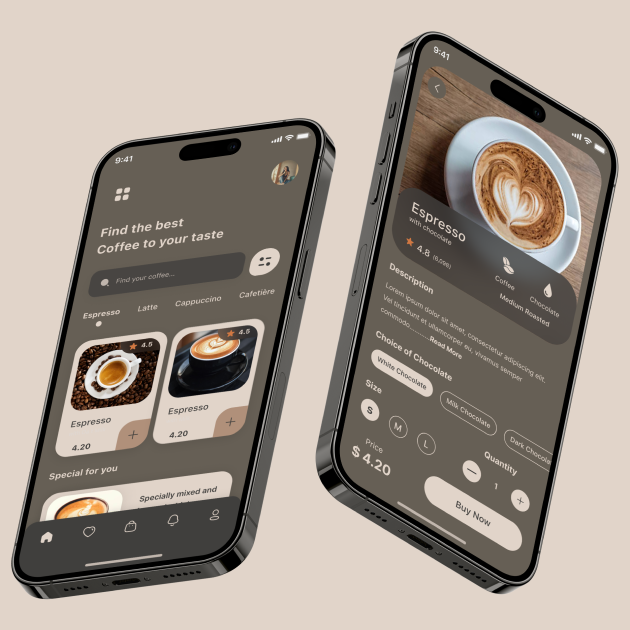
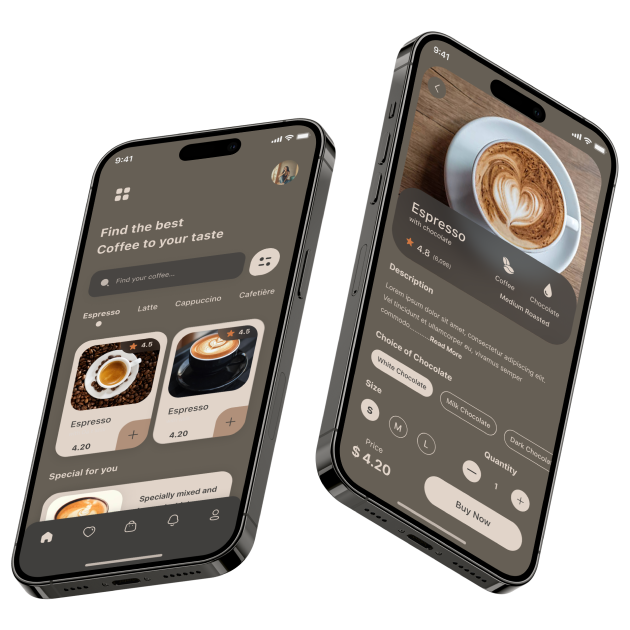
style: add css for dark/light theme

diff --git a/coffee-house/home.html b/coffee-house/home.html
@@ -63,8 +63,8 @@
           <div class="favorite__slider-main">
             <div class="slide__icon slide__icon-prev">
               <svg width="60" height="60" viewBox="0 0 60 60" fill="none" xmlns="http://www.w3.org/2000/svg">
-                <rect x="0.5" y="0.5" width="59" height="59" rx="29.5" stroke="#665F55"/>
-                <path d="M36.5 30H24M24 30L30 24M24 30L30 36" stroke="#403F3D" stroke-linecap="round" stroke-linejoin="round"/>
+                <rect x="0.5" y="0.5" width="59" height="59" rx="29.5" stroke="currentColor"/>
+                <path d="M36.5 30H24M24 30L30 24M24 30L30 36" stroke="currentColor" stroke-linecap="round" stroke-linejoin="round"/>
               </svg>                
             </div>
             <div class="slider__card">
@@ -77,8 +77,8 @@
             </div>
             <div class="slide__icon slide__icon-next">
               <svg width="60" height="60" viewBox="0 0 60 60" fill="none" xmlns="http://www.w3.org/2000/svg">
-                <rect x="0.5" y="0.5" width="59" height="59" rx="29.5" stroke="#665F55"/>
-                <path d="M36.5 30H24M24 30L30 24M24 30L30 36" stroke="#403F3D" stroke-linecap="round" stroke-linejoin="round"/>
+                <rect x="0.5" y="0.5" width="59" height="59" rx="29.5" stroke="currentColor"/>
+                <path d="M36.5 30H24M24 30L30 24M24 30L30 36" stroke="currentColor" stroke-linecap="round" stroke-linejoin="round"/>
               </svg> 
             </div>
           </div>
@@ -133,8 +133,8 @@
           <div class="mobile__buttons">
             <a href="https://www.apple.com/app-store/" class="mobile__button" target="_blank">
               <svg width="36" height="36" viewBox="0 0 36 36" fill="none" xmlns="http://www.w3.org/2000/svg">
-                <path d="M26.7073 18.6307C26.6704 14.6324 30.065 12.6872 30.2203 12.5966C28.2977 9.86366 25.3178 9.49026 24.2707 9.46048C21.7679 9.20369 19.3403 10.9206 18.0654 10.9206C16.765 10.9206 14.8017 9.48529 12.6858 9.52747C9.96293 9.56841 7.41566 11.1055 6.0186 13.4923C3.13542 18.359 5.28572 25.5108 8.04802 29.4446C9.42981 31.3712 11.0444 33.5223 13.1578 33.4466C15.2254 33.3635 15.9978 32.1614 18.4929 32.1614C20.9651 32.1614 21.6903 33.4466 23.8457 33.3983C26.0647 33.3635 27.4618 31.463 28.7952 29.519C30.392 27.3108 31.0333 25.1362 31.0588 25.0245C31.0066 25.0071 26.7493 23.4229 26.7073 18.6307Z" fill="#403F3D"/>
-                <path d="M22.6357 6.87268C23.7477 5.51675 24.5086 3.67205 24.2974 1.80005C22.6879 1.86952 20.675 2.88554 19.5159 4.21169C18.4903 5.38029 17.5742 7.29571 17.8109 9.097C19.6189 9.2285 21.4753 8.20752 22.6357 6.87268Z" fill="#403F3D"/>
+                <path d="M26.7073 18.6307C26.6704 14.6324 30.065 12.6872 30.2203 12.5966C28.2977 9.86366 25.3178 9.49026 24.2707 9.46048C21.7679 9.20369 19.3403 10.9206 18.0654 10.9206C16.765 10.9206 14.8017 9.48529 12.6858 9.52747C9.96293 9.56841 7.41566 11.1055 6.0186 13.4923C3.13542 18.359 5.28572 25.5108 8.04802 29.4446C9.42981 31.3712 11.0444 33.5223 13.1578 33.4466C15.2254 33.3635 15.9978 32.1614 18.4929 32.1614C20.9651 32.1614 21.6903 33.4466 23.8457 33.3983C26.0647 33.3635 27.4618 31.463 28.7952 29.519C30.392 27.3108 31.0333 25.1362 31.0588 25.0245C31.0066 25.0071 26.7493 23.4229 26.7073 18.6307Z" fill="currentColor"/>
+                <path d="M22.6357 6.87268C23.7477 5.51675 24.5086 3.67205 24.2974 1.80005C22.6879 1.86952 20.675 2.88554 19.5159 4.21169C18.4903 5.38029 17.5742 7.29571 17.8109 9.097C19.6189 9.2285 21.4753 8.20752 22.6357 6.87268Z" fill="currentColor"/>
               </svg> 
               <div class="mobile__text">             
                 <div class="app_text">Available on the</div>
@@ -143,10 +143,10 @@
             </a>
             <a href="https://play.google.com/" class="mobile__button" target="_blank">
               <svg width="36" height="36" viewBox="0 0 36 36" fill="none" xmlns="http://www.w3.org/2000/svg">
-                <path d="M3.7558 3.20297C3.39335 3.57289 3.18359 4.14884 3.18359 4.89471V31.4994C3.18359 32.2453 3.39335 32.8212 3.7558 33.1911L3.84525 33.2723L19.1359 18.37V18.0181L3.84525 3.11575L3.7558 3.20297Z" fill="#403F3D"/>
-                <path d="M26.0776 23.34L20.9863 18.37V18.0181L26.0837 13.0482L26.1979 13.1128L32.2345 16.4617C33.9573 17.4121 33.9573 18.976 32.2345 19.9324L26.1979 23.2753L26.0776 23.34Z" fill="#403F3D"/>
-                <path d="M25.2733 24.2007L20.0617 19.1195L4.68164 34.1166C5.25384 34.7031 6.18695 34.7737 7.24807 34.1873L25.2733 24.2007Z" fill="#403F3D"/>
-                <path d="M25.2733 12.1876L7.24807 2.20103C6.18695 1.62058 5.25384 1.69125 4.68164 2.27772L20.0617 17.2688L25.2733 12.1876Z" fill="#403F3D"/>
+                <path d="M3.7558 3.20297C3.39335 3.57289 3.18359 4.14884 3.18359 4.89471V31.4994C3.18359 32.2453 3.39335 32.8212 3.7558 33.1911L3.84525 33.2723L19.1359 18.37V18.0181L3.84525 3.11575L3.7558 3.20297Z" fill="currentColor"/>
+                <path d="M26.0776 23.34L20.9863 18.37V18.0181L26.0837 13.0482L26.1979 13.1128L32.2345 16.4617C33.9573 17.4121 33.9573 18.976 32.2345 19.9324L26.1979 23.2753L26.0776 23.34Z" fill="currentColor"/>
+                <path d="M25.2733 24.2007L20.0617 19.1195L4.68164 34.1166C5.25384 34.7031 6.18695 34.7737 7.24807 34.1873L25.2733 24.2007Z" fill="currentColor"/>
+                <path d="M25.2733 12.1876L7.24807 2.20103C6.18695 1.62058 5.25384 1.69125 4.68164 2.27772L20.0617 17.2688L25.2733 12.1876Z" fill="currentColor"/>
                 </svg>
                 <div class="mobile__text">             
                   <div class="app_text">Available on</div><div class="app_title">Google Play</div>
@@ -168,19 +168,19 @@
           <div class="footer__social">
             <a href="https://twitter.com" class="social_circle" target="_blank">
               <svg width="24" height="24" viewBox="0 0 24 24" fill="none" xmlns="http://www.w3.org/2000/svg">
-                <path d="M23 3.01006C23 3.01006 20.9821 4.20217 19.86 4.54006C19.2577 3.84757 18.4573 3.35675 17.567 3.13398C16.6767 2.91122 15.7395 2.96725 14.8821 3.29451C14.0247 3.62177 13.2884 4.20446 12.773 4.96377C12.2575 5.72309 11.9877 6.62239 12 7.54006V8.54006C10.2426 8.58562 8.50127 8.19587 6.93101 7.4055C5.36074 6.61513 4.01032 5.44869 3 4.01006C3 4.01006 -1 13.0101 8 17.0101C5.94053 18.408 3.48716 19.109 1 19.0101C10 24.0101 21 19.0101 21 7.51006C20.9991 7.23151 20.9723 6.95365 20.92 6.68006C21.9406 5.67355 23 3.01006 23 3.01006Z" stroke="#E1D4C9" stroke-linecap="round" stroke-linejoin="round"/>
+                <path d="M23 3.01006C23 3.01006 20.9821 4.20217 19.86 4.54006C19.2577 3.84757 18.4573 3.35675 17.567 3.13398C16.6767 2.91122 15.7395 2.96725 14.8821 3.29451C14.0247 3.62177 13.2884 4.20446 12.773 4.96377C12.2575 5.72309 11.9877 6.62239 12 7.54006V8.54006C10.2426 8.58562 8.50127 8.19587 6.93101 7.4055C5.36074 6.61513 4.01032 5.44869 3 4.01006C3 4.01006 -1 13.0101 8 17.0101C5.94053 18.408 3.48716 19.109 1 19.0101C10 24.0101 21 19.0101 21 7.51006C20.9991 7.23151 20.9723 6.95365 20.92 6.68006C21.9406 5.67355 23 3.01006 23 3.01006Z" stroke="currentColor" stroke-linecap="round" stroke-linejoin="round"/>
                 </svg>              
             </a>
             <a href="https://www.instagram.com/" class="social_circle" target="_blank">
               <svg width="24" height="24" viewBox="0 0 24 24" fill="none" xmlns="http://www.w3.org/2000/svg">
-                <path d="M12 16C14.2091 16 16 14.2091 16 12C16 9.79086 14.2091 8 12 8C9.79086 8 8 9.79086 8 12C8 14.2091 9.79086 16 12 16Z" stroke="#E1D4C9" stroke-linecap="round" stroke-linejoin="round"/>
-                <path d="M3 16V8C3 5.23858 5.23858 3 8 3H16C18.7614 3 21 5.23858 21 8V16C21 18.7614 18.7614 21 16 21H8C5.23858 21 3 18.7614 3 16Z" stroke="#E1D4C9"/>
-                <path d="M17.5 6.51L17.51 6.49889" stroke="#E1D4C9" stroke-linecap="round" stroke-linejoin="round"/>
+                <path d="M12 16C14.2091 16 16 14.2091 16 12C16 9.79086 14.2091 8 12 8C9.79086 8 8 9.79086 8 12C8 14.2091 9.79086 16 12 16Z" stroke="currentColor" stroke-linecap="round" stroke-linejoin="round"/>
+                <path d="M3 16V8C3 5.23858 5.23858 3 8 3H16C18.7614 3 21 5.23858 21 8V16C21 18.7614 18.7614 21 16 21H8C5.23858 21 3 18.7614 3 16Z" stroke="currentColor"/>
+                <path d="M17.5 6.51L17.51 6.49889" stroke="currentColor" stroke-linecap="round" stroke-linejoin="round"/>
                 </svg>              
             </a>
             <a href="https://www.facebook.com/" class="social_circle" target="_blank">
               <svg width="24" height="24" viewBox="0 0 24 24" fill="none" xmlns="http://www.w3.org/2000/svg">
-                <path d="M17 2H14C12.6739 2 11.4021 2.52678 10.4645 3.46447C9.52678 4.40215 9 5.67392 9 7V10H6V14H9V22H13V14H16L17 10H13V7C13 6.73478 13.1054 6.48043 13.2929 6.29289C13.4804 6.10536 13.7348 6 14 6H17V2Z" stroke="#E1D4C9" stroke-linecap="round" stroke-linejoin="round"/>
+                <path d="M17 2H14C12.6739 2 11.4021 2.52678 10.4645 3.46447C9.52678 4.40215 9 5.67392 9 7V10H6V14H9V22H13V14H16L17 10H13V7C13 6.73478 13.1054 6.48043 13.2929 6.29289C13.4804 6.10536 13.7348 6 14 6H17V2Z" stroke="currentColor" stroke-linecap="round" stroke-linejoin="round"/>
                 </svg>              
             </a>
           </div>

diff --git a/coffee-house/css/style.css b/coffee-house/css/style.css
@@ -12,6 +12,9 @@
 
   --border-primary: #c1b6ad;
   --border-inverse: #665f55;
+
+  --social-hover-bg: #c1b6ad;
+  --social-hover-icon: #403f3d;
 }
 
 /*для Dark-theme*/
@@ -26,6 +29,9 @@
 
   --border-primary: #665f55;
   --border-inverse: #c1b6ad;
+
+  --social-hover-bg: #292826;
+  --social-hover-icon: #e1d4c9;
 }
 
 [data-theme="dark"] .logo__img-light {
@@ -34,6 +40,10 @@
 
 [data-theme="dark"] .logo__img-dark {
   display: block;
+}
+
+[data-theme="dark"] .header__menu::after {
+  background-image: url(../assets/icon/coffee-cup-dark.svg);
 }
 
 html {
@@ -352,18 +362,33 @@ li {
   transform: rotate(180deg);
 }
 
+.slide__icon {
+  color: var(--border-inverse);
+  cursor: pointer;
+  transition: color 0.3s ease;
+}
+
+.slide__icon svg {
+  transition: fill 0.3s ease;
+}
+
+.slide__icon svg path {
+  transition: stroke 0.3s ease;
+}
+
 .slide__icon:hover {
   cursor: pointer;
   transition: 0.5s ease-in-out;
+  color: var(--slider-hover-bg);
 }
 
 .slide__icon:hover svg {
-  fill: #665F55;
+  fill: var(--bg-container);
   transition: fill 0.3s ease;
 }
 
 .slide__icon:hover svg path{
-  stroke: #E1D4C9;
+  stroke: var(--text-inverse);
   transition: stroke 0.3s ease;
 }
 
@@ -460,6 +485,7 @@ li {
   border-radius: 100px;
   border: 1px solid var(--border-inverse);
   background: transparent;
+  color: var(--text-primary);
   display: flex;
   gap: 0.8rem;
   align-items: center;
@@ -477,7 +503,7 @@ li {
 }
 
 .mobile__button:hover svg path{
-  fill: #E1D4C9;
+  fill: var(--text-inverse);
   transition: fill 0.3s ease;
 }
 
@@ -551,12 +577,16 @@ div.mobile__image {
   align-items: center;
 }
 
+.social_circle svg path {
+  stroke: var(--text-inverse);
+}
+
 .social_circle:hover {
-  background: var(--border-primary);
+  background: var(--social-hover-bg);
 }
 
 .social_circle:hover svg path {
-  stroke: #403F3D;
+  stroke: var(--social-hover-icon);
 }
 
 .footer__contact {
